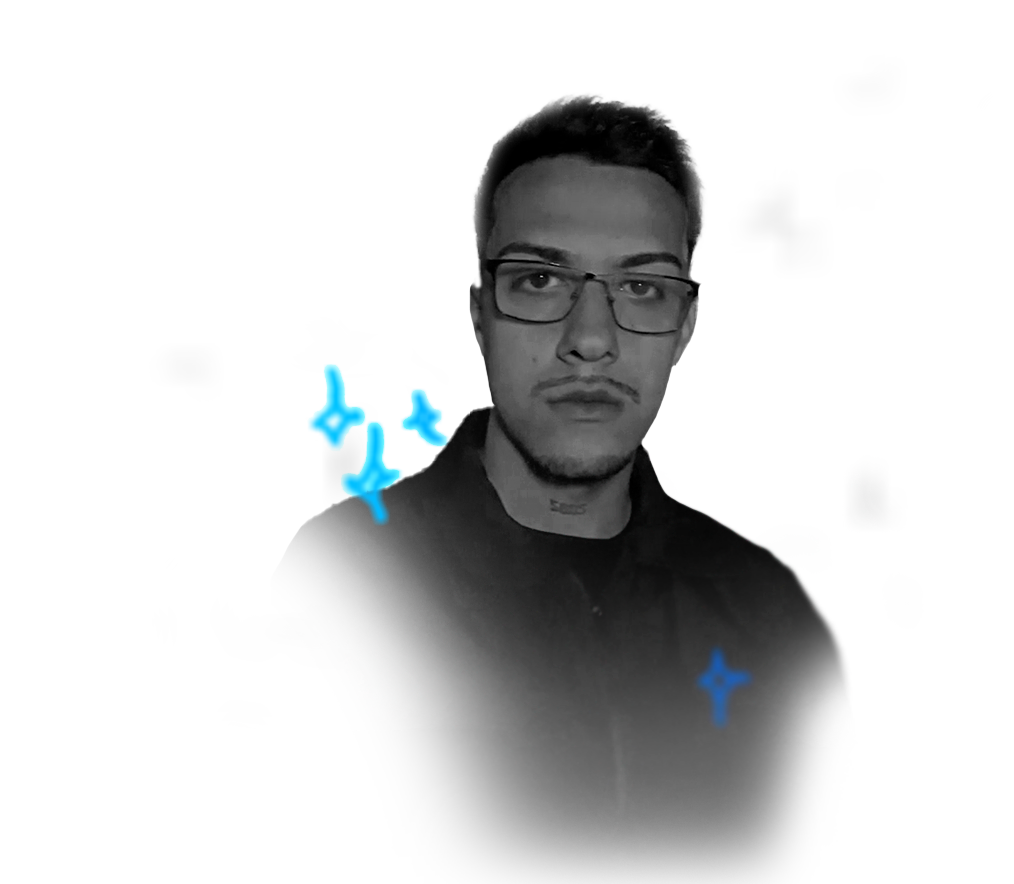
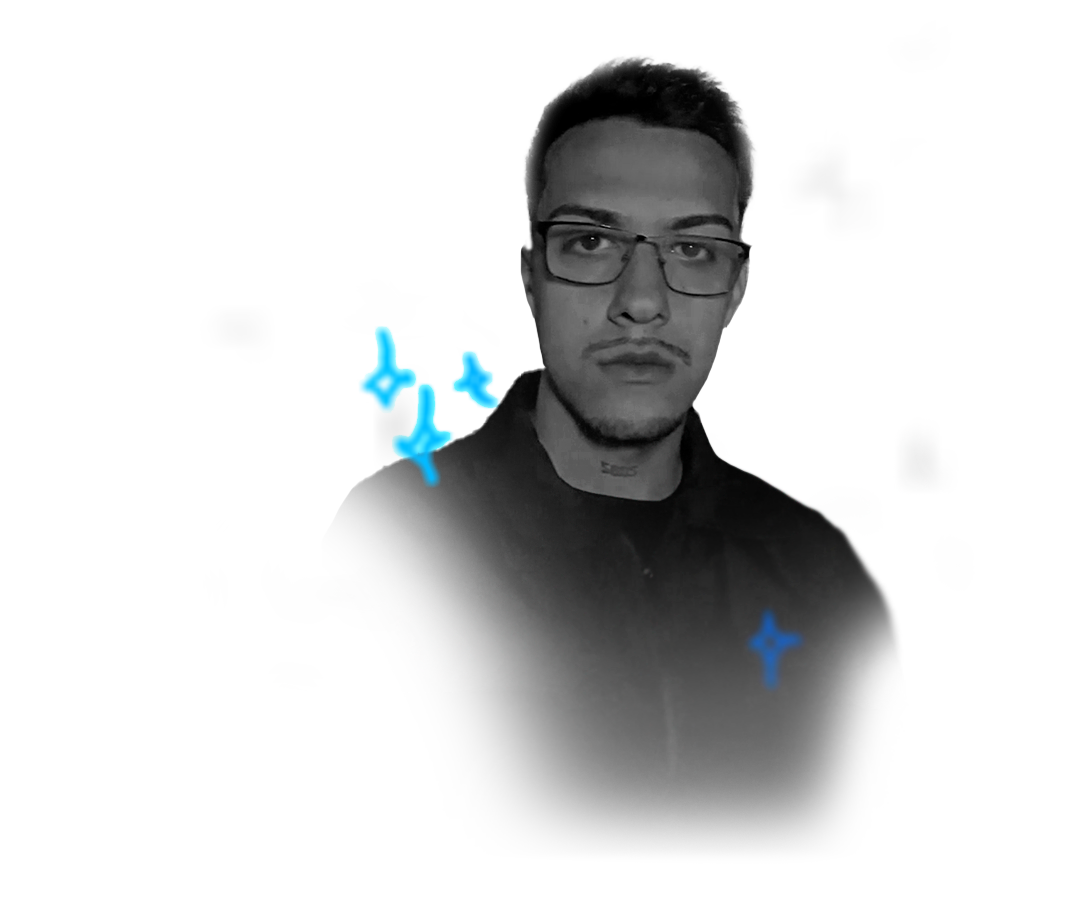
media query part 1

Changed region(s): [[0.2751, 0.0611, 0.856, 1.0]]

diff --git a/css/pages/sectionServicos.css b/css/pages/sectionServicos.css
@@ -1,6 +1,4 @@
 #servicos {
-    height: 100vh;
-    width: 100%;
     display: flex;
     align-items: center;
     justify-content: center;
@@ -129,4 +127,67 @@
     text-align: center;
     font-weight: 700;
     font-size: 36px;
+}
+
+@media (max-width:1500px) {
+    #servicos {
+        gap: 40px;
+    }
+}
+
+@media (max-width:1024px) {
+    .card-servicos {
+        width: 280px;
+        height: 490px;
+    }
+
+    .servicos-social-media-header h4 {
+        font-size: 21px;
+    }
+
+    .card-servicos-text {
+        font-size: 21px;
+    }
+
+    .servicos-edicao-video-header h4, .servicos-landing-page-header h4 {
+        font-size: 30px;
+    }
+}
+
+@media (max-width:768px) {
+
+    .box-cards-servicos {
+        gap: 10px;
+    }
+    .card-servicos {
+        width: 230px;
+        height: 410px;
+    }
+
+    .servicos-social-media-header, .servicos-landing-page-header, .servicos-edicao-video-header {
+        margin-top: 0;
+        gap: 0;
+    }
+
+    .servicos-social-media-header img, .servicos-landing-page-header img, .servicos-edicao-video-header img {
+        width: 45px;
+    } 
+
+    .servicos-social-media-header h4 {
+        font-size: 21px;
+    }
+
+    .servicos-social-media-header > div > span {
+        font-size: 15px;
+    }
+
+    .servicos-social-media, .servicos-landing-page, .servicos-edicao-video {
+        gap: 20px;
+    }
+
+    .servicos-edicao-video-header h4, .servicos-landing-page-header h4 {
+        font-size: 26px;
+        margin: 4px 0;
+    }
+    
 }

diff --git a/css/style.css b/css/style.css
@@ -30,6 +30,9 @@ a {
 
 .section {
     max-width: 2560px;
+    overflow: hidden;
+    width: 100%;
+    height: 100vh;
 }
 
 
@@ -91,9 +94,6 @@ a {
 /*header*/
 
 /*container*/
-#section-first {
-    width: 100%;
-}
 
 .container {
     display: flex;
@@ -310,25 +310,31 @@ a {
 }
 /*footer*/
 
+@media (max-width:1300px) {
+    .box-text-header {
+        margin: 0;
+    }
+
+    .box-img-perfil {
+        width: 700px;
+    }
+}
+
 @media (max-width:1024px) {
     .container {
         gap: 20px;
     }
 
-    .card {
-        width: 250px;
+    .box-img-perfil {
+        left: 40%;
+    }
+
+    .box-img-perfil img {
+        width: 750px;
     }
 }
 
 @media (max-width:768px) {
-    body {
-        height: calc(100vh + 60px);
-    }
-
-    .container {
-        flex-direction: column;
-        gap: 0;
-    }
 
     .box-links {
         flex-direction: row;
@@ -356,14 +362,19 @@ a {
         height: 60px;
     }
 
-    .footer p, .bar-social-media p, .bar-social-media p span {
+    .footer p, .bar-social-media p span {
         font-size: 14px;
-        text-align: center;
     }
-    
-    .icon {
-        margin: 0 15px;
+
+    .box-text-header p {
+        padding: 0 20px;
+        font-size: 22px;
     }
+
+    #logo-ja {
+        width: 35px;
+    }
+
 }
 
 @media (max-width:600px) {

diff --git a/css/carrossel.css b/css/carrossel.css
@@ -1,5 +1,4 @@
 #portifolio {
-    height: 100vh;
     display: flex;
     align-items: center;
     justify-content: center;
@@ -87,12 +86,12 @@
 
 #box-button-carrossel {
     z-index: 3;
-    position: absolute;
+    position: relative;
     width: 100%;
 }
 
 #button-carrossel-previous, #button-carrossel-next {
-    position: relative;
+    position: absolute;
 }
 
 #button-carrossel-previous {
@@ -100,7 +99,7 @@
 }
 
 #button-carrossel-next {
-    left: 89%;
+    right: 1%;
 }
 
 
@@ -129,10 +128,11 @@
 .controles-slide button {
     background-color: transparent;
     border-top: 0px;
-    border-radius: 0px;
+    border-right: 0px;
     border-left: 0px;
     font-size: 25px;
     transform: .4s;
+    outline: none;
 }
 
 
@@ -148,4 +148,28 @@
 
 .button-invisible {
     display: none;
+}
+
+@media (max-width:1500px) {
+    .carrosseis {
+        height: 600px;
+        width: 750px;
+    }
+
+    .ediVideo-item-2 {
+        height: 80%;
+    }
+
+    .ediVideo-item-1, .ediVideo-item-3 {
+        height: 60%;
+    }
+    
+
+    .bloco {
+        width: 280px;
+    }
+
+    .controles-slide {
+        margin: 0;
+    }
 }

diff --git a/css/pages/sectionSobre.css b/css/pages/sectionSobre.css
@@ -1,6 +1,4 @@
 #sobre {
-  height: 100vh;
-  width: 100%;
   display: flex;
   justify-content: center;
   flex-direction: column;
@@ -74,4 +72,29 @@
   color: #fff;
   box-shadow: 0px 0px 40px rgb(0, 32, 138);
   transform: scale(1.1);
+}
+
+@media (max-width:1500px) {
+
+  .box-section-sobre {
+    margin-top: 70px;
+  }
+
+  .box-sobre-img img {
+    width: 650px;
+  }
+
+  .box-sobre-img {
+    left: 70%;
+  }
+
+  .button-sobre {
+    margin-top: 70px;
+  }
+}
+
+@media (max-width:1024px) {
+    .box-sobre-img {
+      left: 50%;
+    }
 }

diff --git a/css/carrosselSocialMedia.css b/css/carrosselSocialMedia.css
@@ -8,7 +8,6 @@
     display: flex;
     height: 600px;
     margin: 0 auto;
-    max-width: 1000px;
     position: relative;
 }
 
@@ -59,4 +58,16 @@
 .social-media-item-4 {
     left: 50%;
     transform: translateX(-50%);
+}
+
+@media (max-width:1500px) {
+
+    
+    .social-media-item-2 {
+        width: 400px;
+    }
+
+    .social-media-item-1, .social-media-item-3 {
+        width: 300px;
+    }
 }

diff --git a/css/carrosselPages.css b/css/carrosselPages.css
@@ -8,7 +8,6 @@
     display: flex;
     height: 600px;
     margin: 0 auto;
-    max-width: 1000px;
     position: relative;
 }
 
@@ -49,3 +48,14 @@
     left: 70%;
     transform: translateX(-50%);
 } */
+
+
+@media (max-width:1500px) {
+    .pages-item-2 {
+        width: 400px;
+    }
+
+    .pages-item-1, .pages-item-3{
+        width: 300px;
+    }
+}

diff --git a/css/carrosselIndVisual.css b/css/carrosselIndVisual.css
@@ -8,7 +8,6 @@
     display: flex;
     height: 600px;
     margin: 0 auto;
-    max-width: 1000px;
     position: relative;
 }
 
@@ -48,4 +47,15 @@
 .item-3 {
     left: 100%;
     transform: translateX(-50%);
+}
+
+@media (max-width:1500px) {
+
+    .item-2 {
+        width: 400px;
+    }
+
+    .item-1, .item-3 {
+        width: 300px;
+    }
 }

diff --git a/css/carrosselEdiVideo.css b/css/carrosselEdiVideo.css
@@ -7,7 +7,6 @@
     display: flex;
     height: 600px;
     margin: 0 auto;
-    max-width: 1000px;
     position: relative;
 }
 
